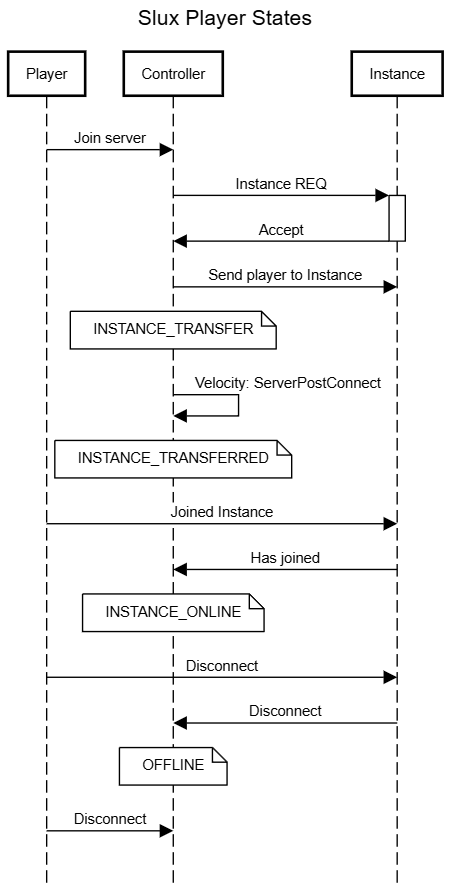
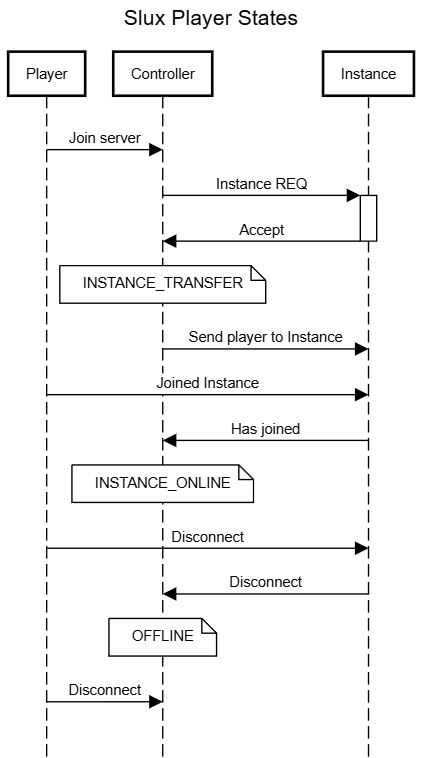
Better synced instance join. Removed INSTANCE_TRANSFERRED player state.

Changed region(s): [[0.0, 0.0, 1.0, 1.0]]

diff --git a/LaneController/LaneControllerVelocity/src/main/java/com/lahuca/lanecontrollervelocity/VelocityController.java b/LaneController/LaneControllerVelocity/src/main/java/com/lahuca/lanecontrollervelocity/VelocityController.java
@@ -39,7 +39,6 @@ import com.velocitypowered.api.event.connection.DisconnectEvent;
 import com.velocitypowered.api.event.connection.LoginEvent;
 import com.velocitypowered.api.event.player.KickedFromServerEvent;
 import com.velocitypowered.api.event.player.PlayerChooseInitialServerEvent;
-import com.velocitypowered.api.event.player.ServerConnectedEvent;
 import com.velocitypowered.api.plugin.Plugin;
 import com.velocitypowered.api.proxy.ConnectionRequestBuilder;
 import com.velocitypowered.api.proxy.Player;
@@ -153,6 +152,7 @@ public class VelocityController {
      */
     @Subscribe
     public void onChooseInitialServer(PlayerChooseInitialServerEvent event) {
+        // TODO Move to controller probably?
         runOnControllerPlayer(event.getPlayer(), (controller, player) -> {
             System.out.println("DEBUG 0: " + player.toString());
             QueueRequest request = new QueueRequest(QueueRequestReason.NETWORK_JOIN, QueueRequestParameters.lobbyParameters);
@@ -264,45 +264,6 @@ public class VelocityController {
             event.getPlayer().disconnect(message); // TODO Will this actually correct work here?
             event.setInitialServer(null);
         });
-    }
-
-    /**
-     * For more dynamic programming we want to catch exactly when the player has connected to a server.
-     * This updates the states from X_TRANSFER to X_TRANSFERRED.
-     * @param event
-     */
-    @Subscribe
-    public void onServerConnectedEvent(ServerConnectedEvent event) {
-        // TODO Move code to Controller: serverTransferred(player, serverName)
-        runOnControllerPlayer(event.getPlayer(), (controller, player) -> {
-            RegisteredServer server = event.getServer();
-            String state = player.getState().getName();
-            System.out.println("DEBUG ON POSTConnect: " + player + ": " + state);
-            if(state.equals(LanePlayerState.INSTANCE_TRANSFER) || state.equals(LanePlayerState.GAME_TRANSFER)) {
-                // Correct state
-                String connectedWith = server.getServerInfo().getName();
-                Object connectTo = player.getState().getProperties().get(LaneStateProperty.INSTANCE_ID).getValue();
-                if(connectTo instanceof String text && text.equals(connectedWith)) {
-                    // Correctly transferred
-                    HashMap<String, ControllerStateProperty> properties = player.getState().getProperties();
-                    if(state.equals(LanePlayerState.INSTANCE_TRANSFER)) {
-                        player.setState(new ControllerPlayerState(LanePlayerState.INSTANCE_TRANSFERRED,
-                                Set.of(new ControllerStateProperty(LaneStateProperty.INSTANCE_ID, properties.get(LaneStateProperty.INSTANCE_ID).getValue()),
-                                        new ControllerStateProperty(LaneStateProperty.TIMESTAMP, System.currentTimeMillis()))));
-                    } else {
-                        player.setState(new ControllerPlayerState(LanePlayerState.GAME_TRANSFERRED,
-                                Set.of(new ControllerStateProperty(LaneStateProperty.INSTANCE_ID, properties.get(LaneStateProperty.INSTANCE_ID).getValue()),
-                                        new ControllerStateProperty(LaneStateProperty.GAME_ID, properties.get(LaneStateProperty.GAME_ID).getValue()),
-                                        new ControllerStateProperty(LaneStateProperty.TIMESTAMP, System.currentTimeMillis()))));
-                    }
-                }
-            } else {
-                // We are at the incorrect state
-                // TODO Make methods to handle this case, for now, we do nothing.
-                // How could this happen? This controller should have updated the player state, so this could not happen.
-                // Probably some network issues.
-            }
-        }, null);
     }
 
     @Subscribe

diff --git a/LaneInstance/src/main/java/com/lahuca/laneinstance/LaneInstance.java b/LaneInstance/src/main/java/com/lahuca/laneinstance/LaneInstance.java
@@ -31,6 +31,7 @@ import java.util.HashMap;
 import java.util.Optional;
 import java.util.UUID;
 import java.util.concurrent.CompletableFuture;
+import java.util.concurrent.ExecutionException;
 
 /**
  * The root endpoint for most calls of methods for a LaneInstance.
@@ -113,8 +114,7 @@ public abstract class LaneInstance extends RequestHandler {
                 sendSimpleResult(packet, ResponsePacket.OK);
             } else if(input.packet() instanceof InstanceUpdatePlayerPacket packet) {
                 PlayerRecord record = packet.playerRecord();
-                getInstancePlayer(record.uuid()).ifPresentOrElse(player -> player.applyRecord(record),
-                        () -> players.put(record.uuid(), new InstancePlayer(record)));
+                getInstancePlayer(record.uuid()).ifPresent(player -> player.applyRecord(record));
             } else if(input.packet() instanceof ResponsePacket<?> response) {
                 CompletableFuture<Result<?>> request = getRequests().get(response.getRequestId());
                 if(request != null) {
@@ -225,15 +225,17 @@ public abstract class LaneInstance extends RequestHandler {
                     // TODO Maybe game also has slots? Or limitations?
                     // Send queue finished to controller
                     long requestId = getNewRequestId();
-                    buildVoidFuture(requestId).thenAccept(result -> { // TODO Maybe sync?
+                    sendController(new QueueFinishedPacket(requestId, uuid, gameId));
+                    try {
+                        Result<Void> result = buildVoidFuture(requestId).get();
                         if(!result.isSuccessful()) {
                             disconnectPlayer(uuid, "Queue not finished"); // TODO Translate
                             return;
                         }
                         game.onJoin(player);
-                        return;
-                    });
-                    sendController(new QueueFinishedPacket(requestId, uuid, gameId));
+                    } catch (InterruptedException | ExecutionException e) {
+                        disconnectPlayer(uuid, "Could not process queue"); // TODO Translate
+                    }
                 }, () -> {
                     // The given game ID does not exist on this instance. Disconnect
                     disconnectPlayer(uuid, "Invalid game ID on instance."); // TODO Translateable
@@ -247,15 +249,17 @@ public abstract class LaneInstance extends RequestHandler {
                 }
                 // Join allowed, finalize
                 long requestId = getNewRequestId();
-                buildVoidFuture(requestId).thenAccept(result -> {  // TODO Maybe sync?
+                sendController(new QueueFinishedPacket(requestId, uuid, null));
+                try {
+                    Result<Void> result = buildVoidFuture(requestId).get();
                     if(!result.isSuccessful()) {
                         disconnectPlayer(uuid, "Queue not finished"); // TODO Translate
                         return;
                     }
                     // TODO Handle, like TP, etc. Only after response.
-                    return;
-                });
-                sendController(new QueueFinishedPacket(requestId, uuid, null));
+                } catch (InterruptedException | ExecutionException e) {
+                    disconnectPlayer(uuid, "Could not process queue"); // TODO Translate
+                }
             });
         }, () -> {
             // We do not have the details about this player. Controller did not send it.

diff --git a/LaneController/src/main/java/com/lahuca/lanecontroller/Controller.java b/LaneController/src/main/java/com/lahuca/lanecontroller/Controller.java
@@ -137,9 +137,7 @@ public class Controller extends RequestHandler {
                         ControllerPlayerState state = player.getState();
                         if(state != null && state.getProperties() != null && state.getProperties().containsKey(LaneStateProperty.INSTANCE_ID)) {
                             // Check if we either joined the correct instance or game.
-                            boolean instanceTransfer = state.getName().equals(LanePlayerState.INSTANCE_TRANSFER) || state.getName().equals(LanePlayerState.INSTANCE_TRANSFERRED);
-                            boolean gameTransfer = state.getName().equals(LanePlayerState.GAME_TRANSFER) || state.getName().equals(LanePlayerState.GAME_TRANSFERRED);
-                            if(instanceTransfer && state.getProperties().get(LaneStateProperty.INSTANCE_ID).getValue().equals(input.from())) {
+                            if(state.getName().equals(LanePlayerState.INSTANCE_TRANSFER) && state.getProperties().get(LaneStateProperty.INSTANCE_ID).getValue().equals(input.from())) {
                                 // We joined an instance.
                                 ControllerPlayerState newState = new ControllerPlayerState(LanePlayerState.INSTANCE_ONLINE,
                                         Set.of(new ControllerStateProperty(LaneStateProperty.INSTANCE_ID, input.from()),
@@ -150,7 +148,7 @@ public class Controller extends RequestHandler {
                                 connection.sendPacket(new SimpleResultPacket(packet.getRequestId(), ResponsePacket.OK), input.from());
                             } else if(packet.gameId() != null && state.getProperties().containsKey(LaneStateProperty.GAME_ID)
                                     && state.getProperties().get(LaneStateProperty.GAME_ID).getValue().equals(packet.gameId())
-                                    && gameTransfer) {
+                                    && state.getName().equals(LanePlayerState.GAME_TRANSFER)) {
                                 // We joined a game.
                                 ControllerPlayerState newState = new ControllerPlayerState(LanePlayerState.GAME_ONLINE,
                                         Set.of(new ControllerStateProperty(LaneStateProperty.INSTANCE_ID, input.from()),

diff --git a/src/main/java/com/lahuca/lane/LanePlayerState.java b/src/main/java/com/lahuca/lane/LanePlayerState.java
@@ -30,16 +30,6 @@ public interface LanePlayerState extends RecordApplier<PlayerStateRecord> {
      */
     String GAME_TRANSFER = "GAME_TRANSFER";
     /**
-     * Constant for the state name of a player that has joined an instance, but the data has not yet been retrieved by the instance.
-     * Properties set: instanceId -> String, timestamp -> long
-     */
-    String INSTANCE_TRANSFERRED = "INSTANCE_TRANSFERRED";
-    /**
-     * Constant for the state name of a player that has joined a game (therefore sub of {@link #INSTANCE_TRANSFERRED}), but the data has not yet been retrieved by the instance.
-     * Properties set: instanceId -> String, timestamp -> long
-     */
-    String GAME_TRANSFERRED = "GAME_TRANSFERRED";
-    /**
      * Constant for the state name of a player that is online on an instance.
      * Properties set: instanceId -> String
      */
